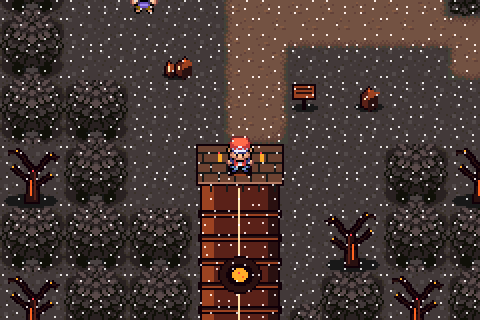
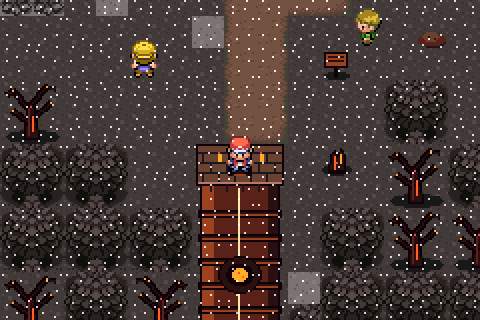
Cinder Forest v3: shorter map, single trail, giant burnt tree blocking the left diagonal, more ash grass and tall grass, pipe runs off the map edge at both ends
Claude-Session: https://claude.ai/code/session_01GQJ6VBZbBVtTh4mURN6n2L

diff --git a/docs/topaze/forest_map.py b/docs/topaze/forest_map.py
@@ -60,7 +60,11 @@ PALS = {}                                        # emplacement -> palette
 for st in range(3):
     for o, s in SLOT[st].items():
         if o != 3: PALS[s] = stage_pal(o, TS_[st])
-PALS[ROCK_SLOT] = stage_pal(3, 0.5)          # roche : meme palette violet-gris sur toute la route
+PALS[ROCK_SLOT] = stage_pal(3, 0.5)
+def lighten(c):
+    h, l, s = colorsys.rgb_to_hls(*[x / 255 for x in c]); r, g, b = colorsys.hls_to_rgb(0.07, min(0.5, l * 1.18 + 0.02), min(0.1, s * 0.3 + 0.015))
+    return int(r * 255 + .5), int(g * 255 + .5), int(b * 255 + .5)
+for _s in (1, 3, 4): PALS[_s] = [PALS[_s][0]] + [lighten(c) for c in PALS[_s][1:]]          # roche : meme palette violet-gris sur toute la route
 # ------------------------------------------------------------------ metatuiles : variantes par etage
 mt = open(EM + 'tilesets/primary/general/metatiles.bin', 'rb').read(); patt = open(EM + 'tilesets/primary/general/metatile_attributes.bin', 'rb').read()
 hdr = open('include/constants/metatile_behaviors.h').read()
@@ -85,7 +89,7 @@ def variant(m, st, special=None):
     SEC_ENT.append(out); SEC_ATT.append(PATT32[m]); VAR[key] = 640 + len(SEC_ENT) - 1
     return VAR[key]
 # ------------------------------------------------------------------ carte
-W, H = 54, 69
+W, H = 54, 57
 GRASS_M, FLOWER_M, TALL_M = 1, 4, 13
 TREE = [[468, 469], [476, 477]]
 G = {}; OCC = {}; STG = {}
@@ -120,16 +124,19 @@ def tree(x, y):
     for j in range(2):
         for i in range(2): put(x + i, y + j, 0x400, TREE[j][i], st=st)
 # ======================================================================== FORET CALCINEE : sentier tortueux (l'ancien coupe-feu), clairieres, cratere central
-S_DOOR, N_DOOR = (29, 62), (5, 9)
-BUILD = {(28 + i, 62 + j) for i in range(3) for j in range(7)} | {(4 + i, 3 + j) for i in range(3) for j in range(7)}
+S_DOOR, N_DOOR = (29, 50), (5, 9)
+S_ROWS = [0, 1, 2, 3, 4, 5, 2]                       # lignes du tuyau (art) pour y=50..56 : on voit la face nord avec la porte, puis le tuyau qui part hors carte
+N_ROWS = [2, 5, 2, 5, 3, 4, 2, 5, 6, 7]              # y=0..9 : le tuyau vient du haut de la carte, la porte est en bas (face sud)
+BUILD = {(28 + i, 50 + j) for i in range(3) for j in range(7)} | {(4 + i, j) for i in range(3) for j in range(10)}
 for c in BUILD: OCC[c] = 'tuyau'
-for x in range(0, W, 2): tree(x, 0)
+for x in list(range(0, 4, 2)) + [7] + list(range(8, W, 2)): tree(x, 0)
 for x in list(range(0, 27, 2)) + list(range(31, 52, 2)): tree(x, H - 2)
 for y in range(2, H - 2, 2): tree(0, y); tree(W - 2, y)
 PATH = set()
-WAY = [(29, 61), (29, 53), (44, 50), (44, 42), (12, 41), (12, 32), (42, 31), (42, 21), (8, 19), (6, 13), (5, 10)]
-SPURS = [((12, 41), (8, 47)), ((42, 21), (47, 15)), ((30, 20), (30, 13)), ((12, 32), (7, 28)), ((29, 57), (41, 58))]
-CLEARINGS = [(3, 46, 11, 54), (46, 10, 51, 17), (24, 7, 36, 13), (3, 24, 8, 29), (40, 55, 50, 61), (20, 34, 35, 39)]
+WAY = [(29, 49), (29, 44), (40, 42), (40, 36), (12, 35), (12, 28), (38, 27), (38, 19), (8, 17), (6, 12), (5, 10)]
+SPURS = [((12, 35), (8, 40)), ((38, 19), (44, 14)), ((30, 18), (30, 12)), ((12, 28), (9, 25))]
+CLEARINGS = [(3, 41, 10, 48), (44, 9, 50, 15), (24, 6, 36, 12), (14, 38, 28, 46)]
+GIANT = (7, 21)                                      # grand arbre calcine (3x4) qui barre la diagonale gauche
 def seg(a, b):
     (x0, y0), (x1, y1) = a, b
     n = max(abs(x1 - x0), abs(y1 - y0))
@@ -156,29 +163,32 @@ for (x, y) in PATH:
     if 0 <= x < W and 0 <= y < H: put(x, y, 0x3000, path_id(x, y)); OCC[(x, y)] = 'chemin'
 def dil(cells, r):
     return {(x + i, y + j) for (x, y) in cells for i in range(-r, r + 1) for j in range(-r, r + 1)}
-OBJ = {'youngster': (26, 57), 'boy': (47, 58), 'rick': (47, 46), 'doug': (28, 38), 'sammy': (16, 34), 'anthony': (30, 10), 'charlie': (20, 16),
-       'ball_pokeball': (5, 50), 'ball_antidote': (49, 13), 'ball_potion': (5, 27), 'ball_potion2': (48, 60)}
-HID = {'potion': (4, 25), 'antidote': (42, 56)}
-SIGNS = {'tips1': (31, 60), 'tips2': (43, 48), 'tips3': (22, 43), 'tips4': (14, 36), 'tips5': (36, 33), 'exit': (8, 13)}
+OBJ = {'youngster': (26, 47), 'boy': (33, 46), 'rick': (43, 38), 'doug': (17, 39), 'sammy': (22, 31), 'anthony': (30, 9), 'charlie': (20, 14),
+       'ball_pokeball': (5, 45), 'ball_antidote': (48, 11), 'ball_potion': (9, 46), 'ball_potion2': (27, 44)}
+HID = {'potion': (4, 42), 'antidote': (49, 14)}
+SIGNS = {'tips1': (32, 47), 'tips2': (38, 39), 'tips3': (24, 38), 'tips4': (15, 31), 'tips5': (30, 31), 'exit': (9, 13)}
 RES = dil(list(OBJ.values()) + list(HID.values()) + list(SIGNS.values()), 1)
 CORR = dil(PATH, 2)
 for (x0, y0, x1, y1) in CLEARINGS: CORR |= {(x, y) for x in range(x0, x1 + 1) for y in range(y0, y1 + 1)}
-CR = (23, 35)
+CR = (20, 40)
 for i in range(3):
     for j in range(3): OCC[(CR[0] + i, CR[1] + j)] = 'reserve'
+for i in range(3):
+    for j in range(4):
+        if (GIANT[0] + i, GIANT[1] + j) not in OCC: OCC[(GIANT[0] + i, GIANT[1] + j)] = 'reserve-geant'
 rnd = random.Random(3030)
 bad_ = [c for c in list(OBJ.values()) + list(HID.values()) + list(SIGNS.values()) if c in OCC]
 assert not bad_, ('cases deja prises', bad_, [(c, OCC[c]) for c in bad_])
 # ---- herbes hautes : dans les couloirs et les clairieres, jamais sur le chemin
 TALL = []
 tries = 0
-while len(TALL) < 14 and tries < 4000:
-    tries += 1; x0 = rnd.randint(3, W - 8); y0 = rnd.randint(3, H - 8); w = rnd.randint(2, 4); h = rnd.randint(3, 5)
+while len(TALL) < 30 and tries < 20000:
+    tries += 1; x0 = rnd.randint(3, W - 8); y0 = rnd.randint(4, H - 8); w, h = rnd.choice([(2, 4), (2, 5), (3, 3), (4, 2), (5, 2), (6, 2), (3, 4), (2, 3)])
     cells = [(x, y) for y in range(y0, y0 + h) for x in range(x0, x0 + w)]
     if any(c not in CORR or c in OCC or c in RES for c in cells): continue
     if any(c in dil(PATH, 0) for c in cells): continue
     TALL.append((x0, y0, x0 + w - 1, y0 + h - 1))
-    for c in cells: OCC[c] = 'herbe'; put(c[0], c[1], 0x3000, TALL_M)
+    for c in cells: OCC[c] = 'herbe'; put(c[0], c[1], 0x3000, TALL_M, st=1)
 # ---- foret : arbres sur un reseau 2x2 partout sauf couloirs/clairieres ; un tiers sont des squelettes calcines (art)
 DEAD = []
 for y in range(2, H - 2, 2):
@@ -188,6 +198,14 @@ for y in range(2, H - 2, 2):
         if rnd.random() < 0.05: continue
         if rnd.random() < 0.34: DEAD.append((x, y)); claim(x, y, 2, 2, 'arbre mort')
         else: tree(x, y); claim(x, y, 2, 2, 'arbre')
+# ---- herbe cendree : zones de sol gris clair (c'etait une foret), hors arbres, chemin et objets
+ASH = set()
+for y in range(2, H - 2):
+    for x in range(2, W - 2):
+        c = (x, y)
+        if c in OCC or c in RES: continue
+        n = math.sin(x * 0.45 + y * 0.3) + math.sin(y * 0.6 - x * 0.2) + math.sin(x * 0.17 + y * 0.5)
+        if n > 0.5: put(x, y, 0x3000, GRASS_M, st=1); ASH.add(c)
 RIDGE = set(); WALL = set(); BLOB = {}
 
 # ---- art : cristaux (prismes de grenat -> domes d'opale), pierre du degrade
@@ -413,7 +431,19 @@ def ash_img(st):
     d.ellipse((2, 10, 14, 15), fill=13); d.ellipse((1, 9, 14, 14), fill=7); d.ellipse((3, 8, 11, 12), fill=14)
     d.point((6, 10), fill=6); d.point((9, 11), fill=6)
     return im
+def giant_img(st):
+    im = ground_bg(48, 64, st); d = ImageDraw.Draw(im)
+    d.ellipse((2, 52, 46, 63), fill=13)
+    d.polygon([(4, 61), (13, 44), (15, 22), (33, 22), (35, 44), (44, 61), (30, 56), (18, 56)], fill=6, outline=5)
+    for p, q in (((18, 28), (4, 10)), ((30, 24), (44, 4)), ((14, 38), (1, 32)), ((34, 36), (47, 26)), ((24, 22), (24, 2)), ((4, 10), (1, 14)), ((44, 4), (47, 8)), ((4, 10), (7, 1))):
+        d.line([p, q], fill=5, width=6); d.line([p, q], fill=6, width=4)
+    d.line([(19, 26), (17, 54)], fill=7); d.line([(27, 28), (28, 52)], fill=10); d.line([(24, 24), (24, 30)], fill=10)
+    d.ellipse((20, 38, 28, 48), fill=5); d.ellipse((22, 40, 26, 46), fill=12); d.point((24, 43), fill=11)
+    for p in ((6, 12), (40, 6), (4, 30), (45, 24), (22, 3), (8, 4)): d.point(p, fill=11)
+    for p in ((15, 56), (33, 56), (19, 55)): d.point(p, fill=12)
+    return im
 for st in (2,):
+    b = giant_img(st); ART[('giant', st)] = {(i, j): meta(b.crop((i * 16, j * 16, i * 16 + 16, j * 16 + 16)), st) for j in range(4) for i in range(3)}
     for var in (0, 1):
         b = dead_img(st, var); ART[('dead', st, var)] = {(i, j): meta(b.crop((i * 16, j * 16, i * 16 + 16, j * 16 + 16)), st) for j in range(2) for i in range(2)}
     b = log_img(st); ART[('log', st)] = [meta(b.crop((0, 0, 16, 16)), st), meta(b.crop((16, 0, 32, 16)), st)]
@@ -422,9 +452,15 @@ for st in (2,):
 # ---- placement
 DOORS = {S_DOOR, N_DOOR}
 for j in range(7):
+    for i in range(3): ART_PLACE[(28 + i, 50 + j)] = ART[('tube', 2)][(i, S_ROWS[j])]
+for j in range(10):
+    for i in range(3): ART_PLACE[(4 + i, j)] = ART[('tube', 2)][(i, N_ROWS[j])]
+# grand arbre calcine sur la diagonale gauche : il barre le chemin (les cases de chemin dessous sont remplacees)
+for j in range(4):
     for i in range(3):
-        ART_PLACE[(28 + i, 62 + j)] = ART[('tube', 2)][(i, j)]
-        ART_PLACE[(4 + i, 3 + j)] = ART[('tube', 2)][(i, j + 1)]
+        c = (GIANT[0] + i, GIANT[1] + j)
+        if c in OCC and OCC[c] not in ('chemin', 'reserve-geant'): raise AssertionError(('arbre geant', c, OCC[c]))
+        OCC[c] = 'arbre geant'; ART_PLACE[c] = ART[('giant', 2)][(i, j)]
 for c in SIGNS.values(): claim(c[0], c[1], 1, 1, 'panneau'); ART_PLACE[c] = ART[('sign', 2)]
 for (x, y) in DEAD:
     v = rnd.randrange(2)
@@ -439,9 +475,10 @@ def near(x, y, r=1):
             if (x + i, y + j) in OCC or (x + i, y + j) in ART_PLACE: return True
     return False
 PATH_D = dil(PATH, 1)
-TRAINERS = {'rick': 4, 'doug': 4, 'sammy': 3, 'anthony': 4, 'charlie': 4}
+TRAINERS = {'rick': 3, 'doug': 4, 'sammy': 3, 'anthony': 4, 'charlie': 4}
 LINE = {(OBJ[k][0] + dx * d_, OBJ[k][1] + dy * d_) for k in TRAINERS for dx, dy in ((0, -1), (0, 1), (-1, 0), (1, 0)) for d_ in range(1, 6)}
-OPEN = sorted(c for c in CORR if c not in OCC and c not in RES and c not in PATH_D and c not in LINE and 2 <= c[0] <= W - 3 and 2 <= c[1] <= H - 4)
+DARK = variant(GRASS_M, 2)
+OPEN = sorted(c for c in CORR if c not in OCC and c not in RES and c not in PATH_D and c not in LINE and c not in ASH and 2 <= c[0] <= W - 3 and 2 <= c[1] <= H - 4)
 def scatter(n, fn):
     k = tries = 0
     while k < n and tries < 3000:
@@ -453,17 +490,17 @@ def one(name):
         claim(c[0], c[1], 1, 1, name); ART_PLACE[c] = ART[(name_map[name], 2)]; return True
     return f
 name_map = {'vent': 'vent', 'souche': 'stump', 'cendre': 'ash', 'obsidienne0': 'sm0', 'obsidienne1': 'sm1'}
-for nm, n in (('vent', 16), ('souche', 22), ('cendre', 16), ('obsidienne0', 6), ('obsidienne1', 5)): scatter(n, one(nm))
+for nm, n in (('vent', 12), ('souche', 14), ('cendre', 10), ('obsidienne0', 5), ('obsidienne1', 4)): scatter(n, one(nm))
 def logf(c):
     a, b = c, (c[0] + 1, c[1])
     if b not in OPEN or near(a[0], a[1], 1) or near(b[0], b[1], 1): return False
     claim(a[0], a[1], 2, 1, 'tronc'); ART_PLACE[a] = ART[('log', 2)][0]; ART_PLACE[b] = ART[('log', 2)][1]; return True
-scatter(9, logf)
+scatter(7, logf)
 # ---- accessibilite
 ART_RAW_BLOCK = set(ART_PLACE) - DOORS
 def blocked(c):
     return c in ART_RAW_BLOCK or bool(G[c] & 0xc00)
-seen = {(29, 61)}; q = collections.deque([(29, 61)])
+seen = {(29, 49)}; q = collections.deque([(29, 49)])
 while q:
     c = q.popleft()
     for d in ((0, 1), (1, 0), (-1, 0), (0, -1)):

diff --git a/docs/technique/ARCHITECTURE.md b/docs/technique/ARCHITECTURE.md
@@ -51,7 +51,7 @@ Le dépôt est celui de pokefirered ; seuls les éléments modifiés pour Topaze
 | **Pyropia v3 « en terrasses » – la cité du volcan (arène de Kay, Feu)** | Ville 48×40 (slot d'Argenta, `LAYOUT_PEWTER_CITY`) refaite avec les décors de **Lavaridge** (falaises rouges, bassin, arène, maisons à écailles) recolorés en braise : cendre sombre, terre brûlée, **bassin = lac de lave** (teinte HLS de la palette 8, comportement « eau » retiré : pas de Surf) + art procédural (vents de braise, braseros, obsidienne, **cairn de flamme** 3×3). `docs/topaze/pyropia_town.py` (carte + tilesets `general_ember` / `lavaridge_ember`, secondaire compacté 43+47 tuiles, **variantes miroir** pour la falaise est) puis `pyropia_events.py`. **v3 (« la ville est plate »)** : relief en **3 terrasses décalées** (sommet : arène entre deux lacs de lave ; milieu : Centre, Boutique, musée ; bas : maisons et place du cairn) séparées par des **murs de soutènement de 2 cases** (bandeau 625 + face 628) avec **escaliers** dessinés, joint vertical en falaise miroir ; grand lac de lave est (rectangle bordé de roche, `lake()`). L'avenue monte en ligne droite de la sortie sud à l'arène ; rue du milieu, rue du bas, rue est (sortie est → Route 3 en (47,25..26)). La v2 plate est gardée : `docs/topaze/reference/pyropia_v2.{png,py}`. Avant (v2) : **v3d** : toits du Centre et de la Boutique rétablis (rangée du haut gardée avec un **fond d'herbe** à la place de la falaise : option `ground` de `remap()`), coins des lacs sans morceaux de falaise (même option), murs de pins continus le long des bords (plus de trous), bandeau du bas en 620. **v3c** : musée = **façade dessinée** (colonnade, fronton « MUSEUM », 2 portes, bannière de flamme, `museum_art()` 160×64) ; 2 **maisons enterrables en plus** (près de l'arène, et à l'est) = nouvelles cartes `PewterCity_House3/4` (copie de l'intérieur House2, générées par `docs/topaze/pyropia_houses.py` : carte, scripts, textes, `map_groups.json`, `event_scripts.s`) ; 6 **PNJ d'ambiance** (mineur, enfant, scientifique, guide, grand-mère, campeur ; textes provisoires). Ordre : `pyropia_houses.py` → `pyropia_town.py` → `pyropia_events.py`. **v3b** : plus aucune maison sans porte : seules restent les 2 maisons qui ont un intérieur ; les vides sont comblés par des **cratères de lave** et des **amas d'obsidienne** (art 3×3), le musée redevient une **grande halle rouge 10×4 à 2 portes** (comme l'original), Centre et Boutique sans la rangée de toit qui montrait des morceaux de falaise ; `pyropia_town.py` vérifie par assertion que portes, sorties et escaliers forment **un seul réseau de chemins**. Sorties = **warps** (`IsTopazeStepWarpMap()` étendu à `LAYOUT_PEWTER_CITY`/`ROUTE3`), Route 2 (8..11,0) et Route 3 (0,9..12). Guides scriptés d'origine (guide de l'arène, du musée, assistant aux chaussures, arbre à couper) retirés/cachés (OnTransition) car leurs trajets étaient codés en dur ; chaussures de course déjà données au début. **Respawn du Centre** : désormais dans `src/data/heal_locations.json` (le `.h` est généré et ignoré par git ; l'ancienne édition du `.h` pour Opanihrum était perdue à chaque régénération : corrigée). Rendu : `docs/topaze/reference/pyropia_v2.png`. L'ancienne version (Argenta repeinte, `volcanic_pyropia.py`) est conservée dans l'historique. |
 | **Route 1 « route du dégradé » (carte entièrement nouvelle 26×54)** | `docs/topaze/route1_gradient.py` puis `route1_events.py`. Les couleurs glissent du **grenat** (sud, Grenalux) au **violet** puis à l'**opale noire** (nord, Opanihrum) : 3 étages de palettes (mélange en teinte HLS par le violet) ; les métatuiles d'Émeraude (herbe, arbres, fleurs, herbe haute, sable) sont recopiées dans le tileset secondaire `gradient_road` avec d'autres numéros de palette (emplacements : étage 0 = primaire 0,2,5 ; étage 1 = primaire 1,3,4 ; étage 2 = secondaire 7,8,9 ; art 6/10/11 ; panneau 12), l'étage de chaque case suit le gradient sud→nord + un champ lisse + un grain (fondu irrégulier). Chemin sinueux, 10 zones d'herbes hautes (rencontres), cristaux épars (prismes de grenat → dômes d'opale) et « pierre du dégradé » (3×3). Warps : sud (12..13,53) ↔ Grenalux, nord (14..17,0) ↔ Opanihrum. Le garçon et le panneau ont de nouveaux textes (plus de corniches). Primaire `general_gradient`. Rendu : `docs/topaze/reference/route1_gradient_v1.png`. **v5 (actuelle)** : transitions arbres/herbe corrigées (arbres et herbe de bordure ou voisine d'un arbre prennent le même étage lissé, sans grain). Rendu : `route1_gradient_v5.png`. **v4 (gardée de côté : `reference/route1_gradient_v4.{png,py}`, branche `route1-gradient-v4-reference`)** : retour « trop longue, le joueur va tout droit » → carte raccourcie **26×38** et chemin **obligatoirement en zigzag** : 4 crêtes de roche quasi pleine largeur (bords ondulés) avec chacune une brèche, côtés alternés (`RIDGE_Y`, `GAPS` dans `route1_gradient.py`) ; warps sud (12..13,37), nord (14..17,0). Rendu : `route1_gradient_v4.png`. **v3 (archivée, `route1_gradient_v3.png`)** : retour de l'utilisateur sur la v2 « trop brute, pas assez naturel, les murs ne se touchent pas » → chemin en méandre continu (`xc(y)` + remplissage ligne à ligne), plus de monticules ni de corniches ; 11 **plateaux rocheux organiques** (blobs de croissance compacte) dessinés en **autotile** (masque des 4 voisins, 3 variantes, teinte selon l'étage au centroïde) donc les murs se touchent et forment des crêtes continues ; pierre du dégradé et panneau (11,51) conservés. Rendu : `docs/topaze/reference/route1_gradient_v3.png`. **v2 (archivée dans le rendu `route1_gradient_v2.png`)** : chemin beaucoup plus sinueux (18 points, segments courts), 5 **murs de collines** (monticules de roche 2×2, métatuiles 131/132/139/140, palette de roche partagée en 12) qui ne laissent que le chemin, **corniches** (ledges, saut vers le sud) en terrasses, panneau dessiné en art ; herbes hautes tirées au hasard près du chemin. La v1 (chemin presque droit) est conservée : `docs/topaze/reference/route1_gradient_v1.{png,py}` et branche `route1-gradient-v1-reference`. |
 | **Route 2 « route du crépuscule » (carte entièrement nouvelle 26×56, Opanihrum → Pyropia)** | `docs/topaze/route2_gradient.py` puis `route2_events.py` (tilesets `general_dusk`/`dusk_road`, C : `GeneralDusk`/`DuskRoad`). Même technique de palettes par étages que la Route 1, dégradé opale noire → cendre grise → braise, interpolé en RVB (v2 : plus de violet ; la braise est atteinte à y=30, au pied de la falaise, donc on sent la forêt brûlée avant d'y entrer ; souches calcinées dispersées, plus denses près des portails). Falaise pleine largeur (y 27-32) : on ne passe du sud au nord que par la Forêt de Jade, via UN seul long « tuyau » de pierre dessiné (3×8, x 12-14, y 26-33) qui traverse la falaise : porte sud (13,33) = warp 1, porte arrière nord (13,26) = warp 0 (on sort par l'arrière du bâtiment qu'on voyait déjà). Warps : 2,3 sud → Opanihrum (ids 6,7) ; 4,5 nord → Pyropia (ids 7,8). Cristaux d'opale au sud, éclats d'obsidienne et fissures de braise au nord. Supprimés : maison, entrée de Diglett, bâtiment est, arbres à couper (contournaient la forêt). Référence : `docs/topaze/reference/route2_dusk_v1.png`. ATTENTION : relancer `pyropia_events.py` ou `opanihrum_events.py` réécrit les warps vers la Route 2 (refaire `route2_events.py`). |
-| **Forêt calcinée (ex Viridian Forest, « CINDER FOREST ») v2** | Ordre : `forest_cinder.py` (enregistrement des tilesets `GeneralCinder`/`CinderForest`, image d'intro recolorée, nom) → `forest_map.py` (carte 54×69 entièrement nouvelle, même machinerie que la Route 2 à l'étage 2 ; génère aussi les tilesets `general_cinder`/`cinder_forest`) → `forest_events.py` (warps, dresseurs, objets, panneaux, météo `WEATHER_VOLCANIC_ASH`). Un sentier tortueux (l'ancien coupe-feu) relie le tuyau sud (porte (29,62)) au tuyau nord (porte (5,9)) ; 5 clairières, cratère de lave au centre, arbres sur réseau 2×2 dont un tiers de squelettes calcinés dessinés, souches, fissures de braise, troncs couchés. Les 5 dresseurs ont une ligne de vue vérifiée par assertion. `IsTopazeStepWarpMap` inclut la forêt. Les 2 bâtiments sont le même tuyau que sur la Route 2 (face nord avec porte au sud de la forêt, face sud avec porte au nord). Référence : `docs/topaze/reference/forest_cinder_v2.png`. Non fait : Pokémon sauvages, équipes des dresseurs, textes des panneaux (encore ceux d'origine sauf la sortie). |
+| **Forêt calcinée (ex Viridian Forest, « CINDER FOREST ») v3** | Ordre : `forest_cinder.py` (enregistrement des tilesets `GeneralCinder`/`CinderForest`, image d'intro recolorée, nom) → `forest_map.py` (carte 54×57 (v3 : raccourcie, un seul chemin, plus de bras est vide ; grand arbre calciné qui barre la diagonale gauche ; 30 plaques d'herbe haute cendrée plus claire ; sol de cendre clair par plages ; le tuyau nord vient du haut de la carte comme le sud sort par le bas) entièrement nouvelle, même machinerie que la Route 2 à l'étage 2 ; génère aussi les tilesets `general_cinder`/`cinder_forest`) → `forest_events.py` (warps, dresseurs, objets, panneaux, météo `WEATHER_VOLCANIC_ASH`). Un sentier tortueux (l'ancien coupe-feu) relie le tuyau sud (porte (29,62)) au tuyau nord (porte (5,9)) ; 5 clairières, cratère de lave au centre, arbres sur réseau 2×2 dont un tiers de squelettes calcinés dessinés, souches, fissures de braise, troncs couchés. Les 5 dresseurs ont une ligne de vue vérifiée par assertion. `IsTopazeStepWarpMap` inclut la forêt. Les 2 bâtiments sont le même tuyau que sur la Route 2 (face nord avec porte au sud de la forêt, face sud avec porte au nord). Référence : `docs/topaze/reference/forest_cinder_v3.png`. Non fait : Pokémon sauvages, équipes des dresseurs, textes des panneaux (encore ceux d'origine sauf la sortie). |
 | Ville de départ Grenalux | `PalletTown` (`text.inc`), `region_map_entry_strings.h` |
 | Rival par défaut ZEPHYR | `data/text/new_game_intro.inc` |
 | Team Onybris | ~58 fichiers (classe de dresseur + dialogues), remplacement de « TEAM ROCKET » / « ROCKET » dans les `.string` uniquement |
